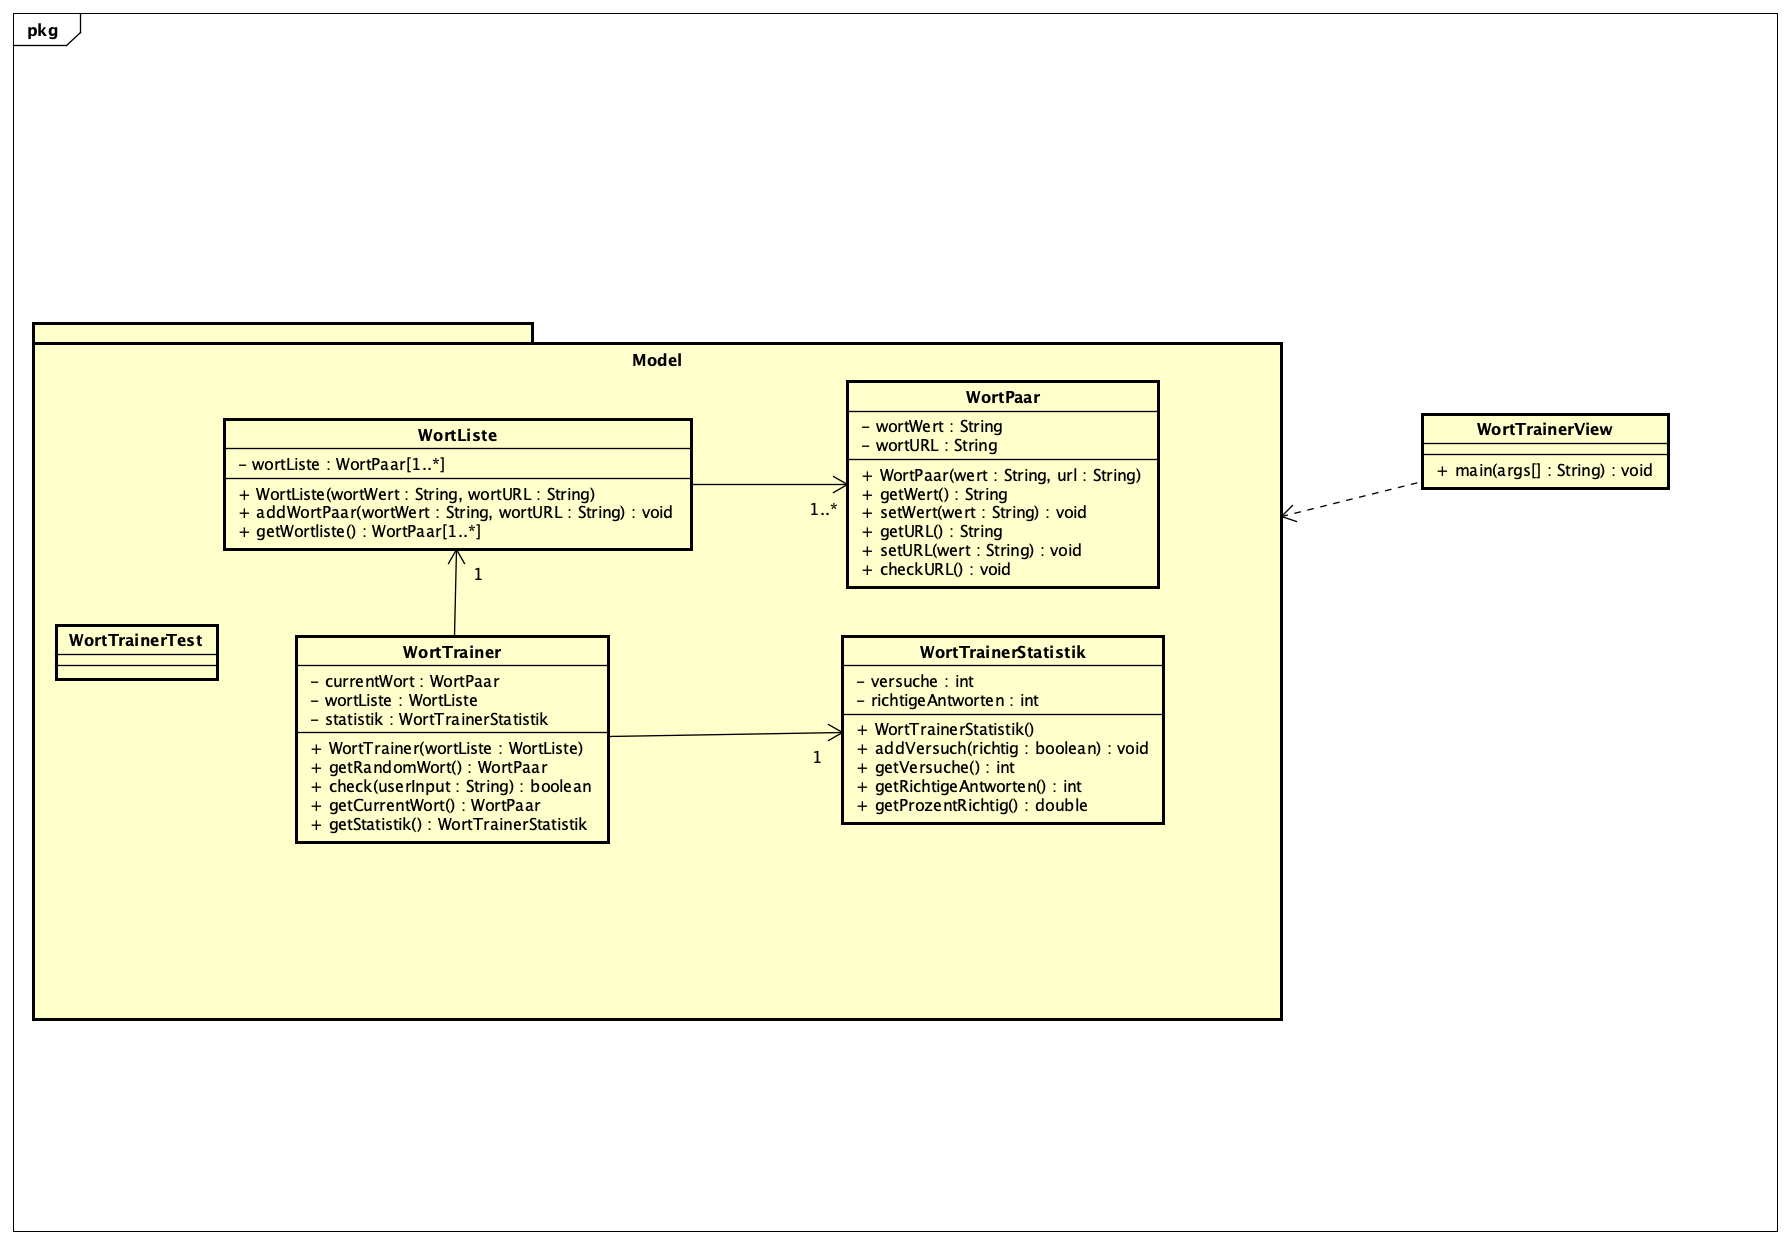
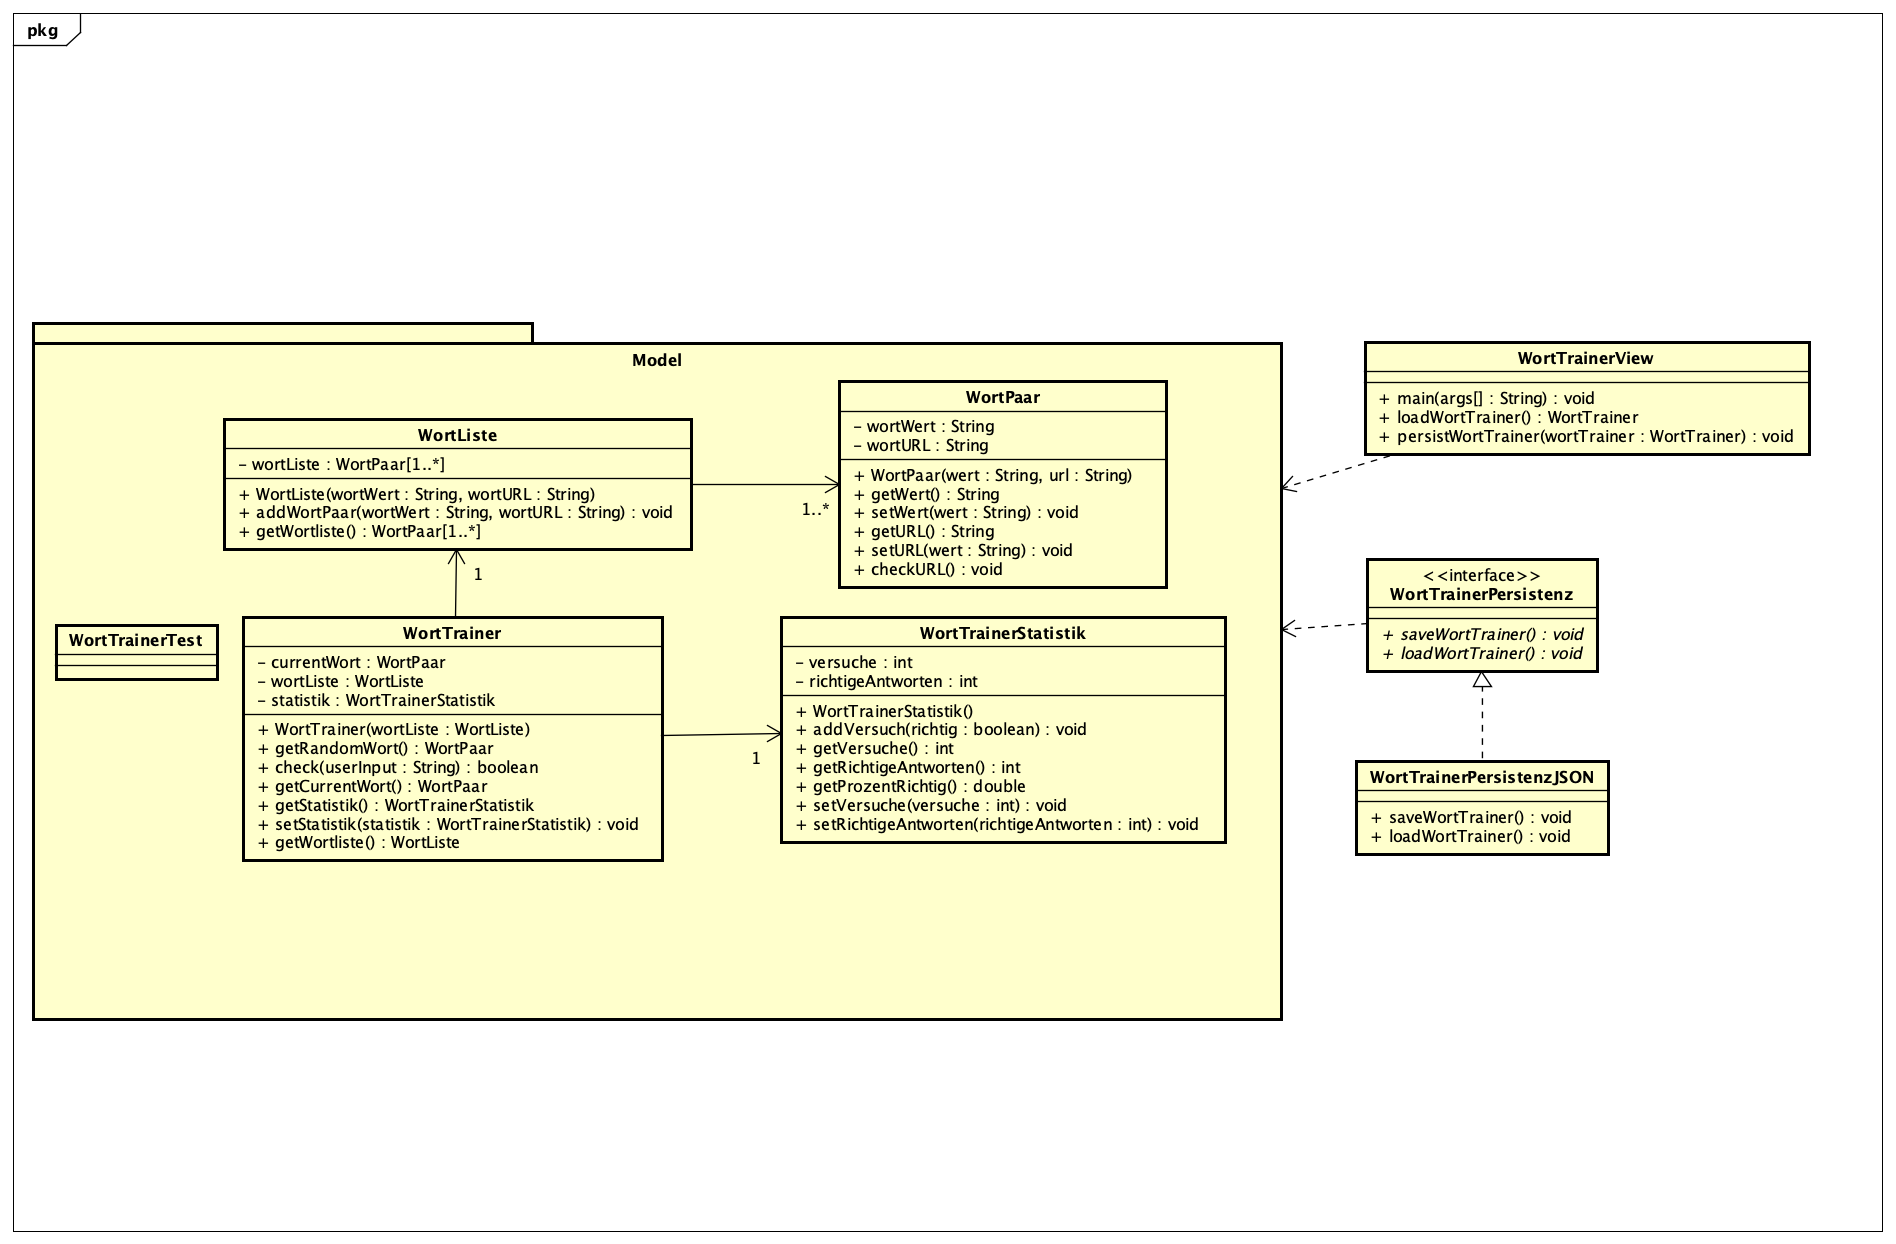
Einbindung der Persistenz mithilfe des Strategy Patterns anhand WortTrainer_UML.png

diff --git a/src/main/java/org/example/WortTrainerPersistenzJSON.java b/src/main/java/org/example/WortTrainerPersistenzJSON.java
@@ -1,0 +1,73 @@
+package org.example;
+
+import org.example.Model.WortListe;
+import org.example.Model.WortPaar;
+import org.example.Model.WortTrainer;
+import org.json.JSONObject;
+import org.json.JSONTokener;
+
+import java.io.FileReader;
+import java.io.FileWriter;
+import java.io.IOException;
+
+/**
+ * Klasse für die Persistenz des WortTrainers
+ * Speichert und lädt den WortTrainer als JSON-Datei
+ */
+
+public class WortTrainerPersistenzJSON implements WortTrainerPersistenz {
+    @Override
+    public void saveWortTrainer(WortTrainer wortTrainer) {
+        JSONObject jsonObject = new JSONObject();
+        WortListe wo = wortTrainer.getWortListe();
+        for (WortPaar wortPaar : wo.getWortListe()) {
+            jsonObject.put(wortPaar.getWortWert(), wortPaar.getWortURL());
+        }
+        jsonObject.put("versuche", wortTrainer.getStatistik().getVersuche());
+        jsonObject.put("richtigeAntworten", wortTrainer.getStatistik().getRichtigeAntworten());
+
+        System.out.println("WortTrainer saved!" + jsonObject.toString());
+
+        try {
+            FileWriter file = new FileWriter("WortTrainer.json");
+            file.write(jsonObject.toString());
+            file.close();
+        } catch (IOException e) {
+            throw new RuntimeException(e);
+        }
+    }
+
+    @Override
+    public WortTrainer loadWortTrainer() {
+        WortTrainer wortTrainer = null;
+        try {
+            FileReader reader = new FileReader("WortTrainer.json");
+            JSONObject jsonObject = new JSONObject(new JSONTokener(reader));
+
+            WortListe wortListe = null;
+            for (String key : jsonObject.keySet()) {
+                if (!key.equals("versuche") && !key.equals("richtigeAntworten")) {
+                    WortPaar wortPaar = new WortPaar(key, jsonObject.getString(key));
+                    if (wortListe == null) {
+                        wortListe = new WortListe(wortPaar.getWortWert(), wortPaar.getWortURL());
+                    } else {
+                        wortListe.addWortPaar(wortPaar);
+                    }
+                }
+            }
+
+            int versuche = jsonObject.getInt("versuche");
+            int richtigeAntworten = jsonObject.getInt("richtigeAntworten");
+
+            wortTrainer = new WortTrainer(wortListe);
+            wortTrainer.getStatistik().setVersuche(versuche);
+            wortTrainer.getStatistik().setRichtigeAntworten(richtigeAntworten);
+
+            reader.close();
+        } catch (IOException e) {
+            throw new RuntimeException(e);
+        }
+
+        return wortTrainer;
+    }
+}

diff --git a/src/main/java/org/example/View/WortTrainerView.java b/src/main/java/org/example/View/WortTrainerView.java
@@ -1,8 +1,13 @@
 package org.example.View;
 
 import org.example.Model.*;
+import org.example.WortTrainerPersistenz;
+import org.example.WortTrainerPersistenzJSON;
+import org.json.JSONObject;
+
 import javax.swing.*;
 import java.awt.*;
+import java.io.File;
 import java.net.URL;
 
 /**
@@ -59,15 +64,22 @@ public class WortTrainerView {
             }
         }
         persistWortTrainer(wortTrainer);
-        JOptionPane.getRootFrame().dispose();
     }
 
     private static WortTrainer loadWortTrainer() {
-        WortListe wl = new WortListe("Hund", "https://as1.ftcdn.net/v2/jpg/02/58/18/06/1000_F_258180661_y40ddZDL7IxNK5LuPqXZTPOcbSv08t4x.jpg");
-        wl.addWortPaar(new WortPaar("Katze", "https://as1.ftcdn.net/v2/jpg/01/19/18/08/1000_F_119180881_GtjSIX6CJLMCsoSqzdE6vFBXNVbQmfSs.jpg"));
-        return new WortTrainer(wl);
+        File f = new File("WortTrainer.json");
+        if (f.exists() && !f.isDirectory()) {
+            WortTrainerPersistenz wtPers = new WortTrainerPersistenzJSON();
+            return wtPers.loadWortTrainer();
+        } else {
+            WortListe wl = new WortListe("Hund", "https://as1.ftcdn.net/v2/jpg/02/58/18/06/1000_F_258180661_y40ddZDL7IxNK5LuPqXZTPOcbSv08t4x.jpg");
+            wl.addWortPaar(new WortPaar("Katze", "https://as1.ftcdn.net/v2/jpg/01/19/18/08/1000_F_119180881_GtjSIX6CJLMCsoSqzdE6vFBXNVbQmfSs.jpg"));
+            return new WortTrainer(wl);
+        }
     }
 
     private static void persistWortTrainer(WortTrainer wortTrainer) {
+        WortTrainerPersistenz wtPers = new WortTrainerPersistenzJSON();
+        wtPers.saveWortTrainer(wortTrainer);
     }
 }

diff --git a/src/main/java/org/example/Model/WortTrainerStatistik.java b/src/main/java/org/example/Model/WortTrainerStatistik.java
@@ -26,6 +26,14 @@ public class WortTrainerStatistik {
         return versuche;
     }
 
+    public void setVersuche(int versuche) {
+        this.versuche = versuche;
+    }
+
+    public void setRichtigeAntworten(int richtigeAntworten) {
+        this.richtigeAntworten = richtigeAntworten;
+    }
+
     public int getRichtigeAntworten() {
         return richtigeAntworten;
     }

diff --git a/src/main/java/org/example/WortTrainerPersistenz.java b/src/main/java/org/example/WortTrainerPersistenz.java
@@ -1,0 +1,13 @@
+package org.example;
+
+import org.example.Model.WortListe;
+import org.example.Model.WortTrainer;
+
+/**
+ * Interface für die Persistenz des WortTrainers
+ */
+
+public interface WortTrainerPersistenz {
+    public void saveWortTrainer(WortTrainer wortTrainer);
+    public WortTrainer loadWortTrainer();
+}

diff --git a/src/test/java/WortTrainerTest.java b/src/test/java/WortTrainerTest.java
@@ -37,7 +37,7 @@ public class WortTrainerTest {
         WortTrainerStatistik statistik = new WortTrainerStatistik();
         statistik.addVersuch(true);
         statistik.addVersuch(false);
-        assertEquals(50.0, statistik.getProzentRichtig());
+        assertEquals("50,00", statistik.getProzentRichtig());
     }
 
 }

diff --git a/src/main/java/org/example/Model/WortTrainer.java b/src/main/java/org/example/Model/WortTrainer.java
@@ -39,4 +39,8 @@ public class WortTrainer {
     public WortTrainerStatistik getStatistik() {
         return statistik;
     }
+
+    public WortListe getWortListe() {
+        return wortListe;
+    }
 }
